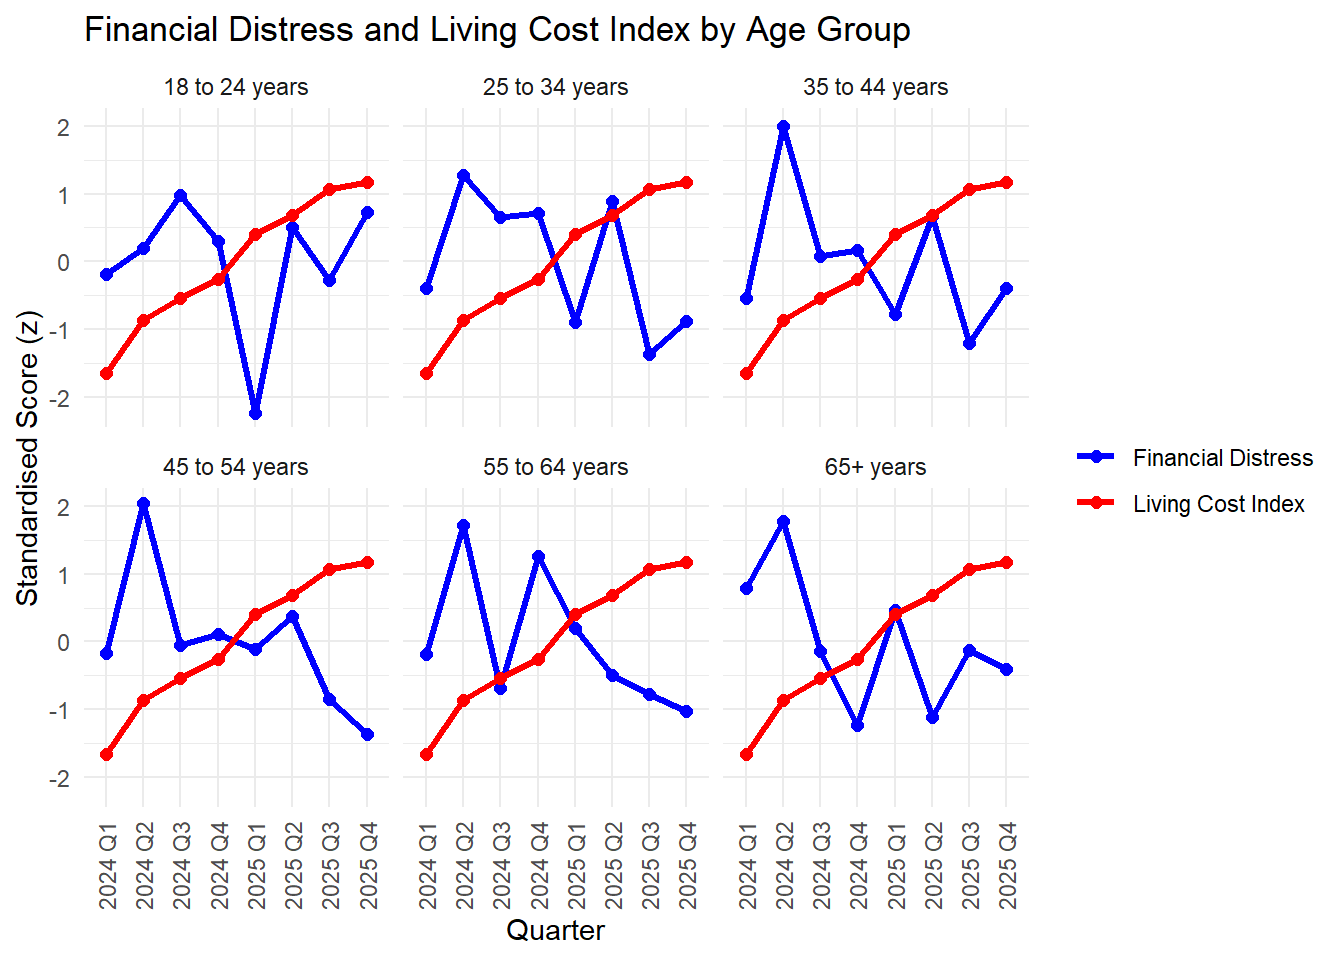
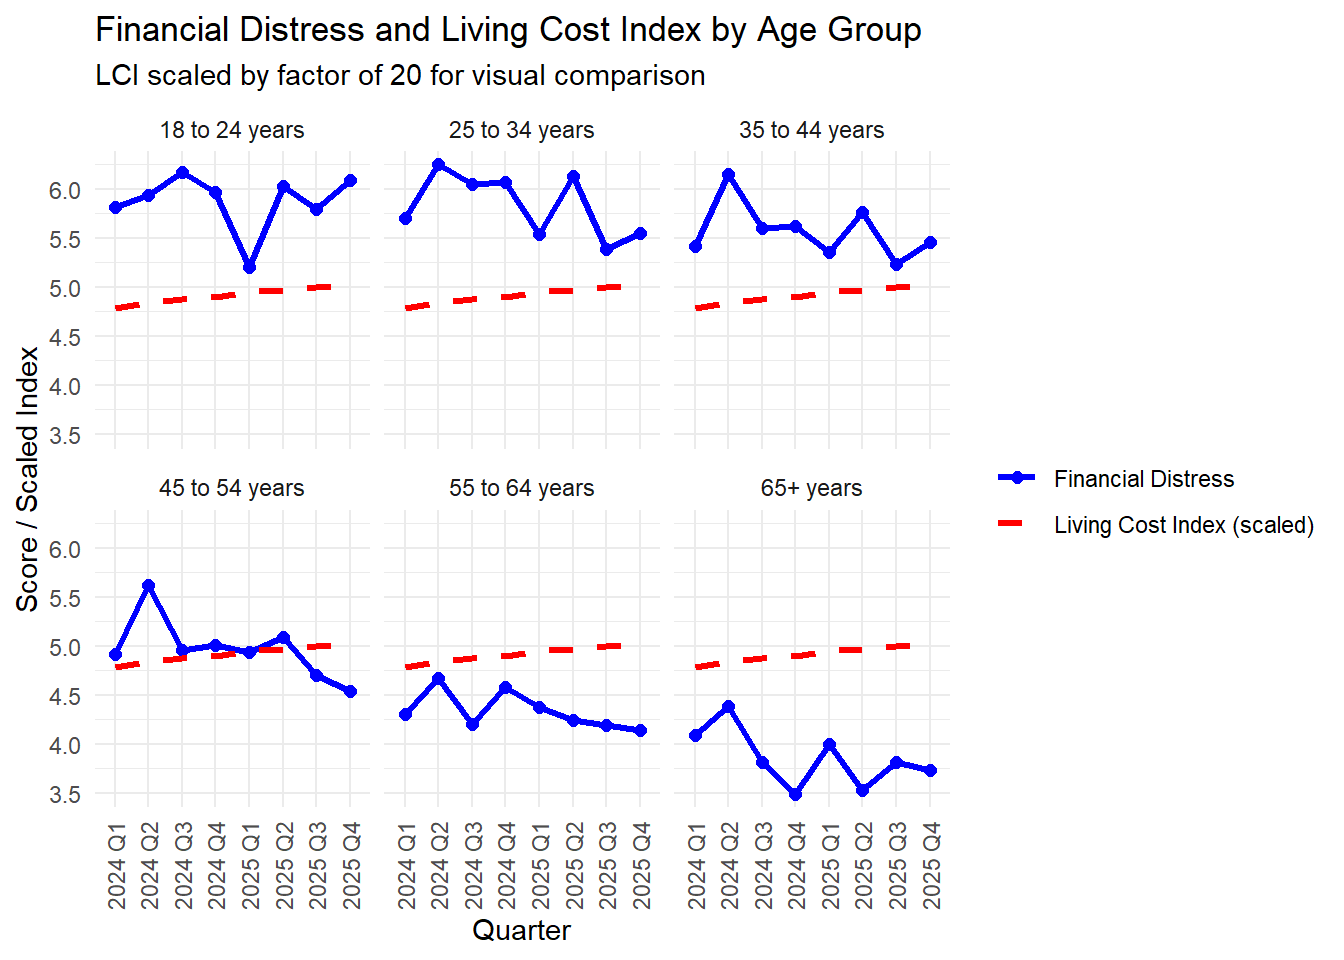
Utilities section added

diff --git a/phase2.html b/phase2.html
@@ -342,23 +342,27 @@ sample estimates:
 <span id="cb14-7"><a href="#cb14-7" aria-hidden="true" tabindex="-1"></a>  <span class="fu">ungroup</span>()</span></code></pre></div><button title="Copy to Clipboard" class="code-copy-button"><i class="bi"></i></button></div>
 </div>
 <div class="cell">
-<div class="code-copy-outer-scaffold"><div class="sourceCode cell-code" id="cb15"><pre class="sourceCode r code-with-copy"><code class="sourceCode r"><span id="cb15-1"><a href="#cb15-1" aria-hidden="true" tabindex="-1"></a><span class="fu">ggplot</span>(age_phase2, <span class="fu">aes</span>(<span class="at">x =</span> quarter, <span class="at">group =</span> <span class="dv">1</span>)) <span class="sc">+</span></span>
-<span id="cb15-2"><a href="#cb15-2" aria-hidden="true" tabindex="-1"></a>  <span class="fu">geom_line</span>(<span class="fu">aes</span>(<span class="at">y =</span> f10_z, <span class="at">colour =</span> <span class="st">"Financial Distress"</span>), <span class="at">linewidth =</span> <span class="fl">1.1</span>) <span class="sc">+</span></span>
-<span id="cb15-3"><a href="#cb15-3" aria-hidden="true" tabindex="-1"></a>  <span class="fu">geom_point</span>(<span class="fu">aes</span>(<span class="at">y =</span> f10_z, <span class="at">colour =</span> <span class="st">"Financial Distress"</span>), <span class="at">size =</span> <span class="dv">2</span>) <span class="sc">+</span></span>
-<span id="cb15-4"><a href="#cb15-4" aria-hidden="true" tabindex="-1"></a>  <span class="fu">geom_line</span>(<span class="fu">aes</span>(<span class="at">y =</span> lci_z, <span class="at">colour =</span> <span class="st">"Living Cost Index"</span>), <span class="at">linewidth =</span> <span class="fl">1.1</span>) <span class="sc">+</span></span>
-<span id="cb15-5"><a href="#cb15-5" aria-hidden="true" tabindex="-1"></a>  <span class="fu">geom_point</span>(<span class="fu">aes</span>(<span class="at">y =</span> lci_z, <span class="at">colour =</span> <span class="st">"Living Cost Index"</span>), <span class="at">size =</span> <span class="dv">2</span>) <span class="sc">+</span></span>
-<span id="cb15-6"><a href="#cb15-6" aria-hidden="true" tabindex="-1"></a>  <span class="fu">facet_wrap</span>(<span class="sc">~</span>age_group) <span class="sc">+</span></span>
-<span id="cb15-7"><a href="#cb15-7" aria-hidden="true" tabindex="-1"></a>  <span class="fu">scale_colour_manual</span>(<span class="at">values =</span> <span class="fu">c</span>(<span class="st">"Financial Distress"</span> <span class="ot">=</span> <span class="st">"blue"</span>, <span class="st">"Living Cost Index"</span> <span class="ot">=</span> <span class="st">"red"</span>)) <span class="sc">+</span></span>
-<span id="cb15-8"><a href="#cb15-8" aria-hidden="true" tabindex="-1"></a>  <span class="fu">labs</span>(</span>
-<span id="cb15-9"><a href="#cb15-9" aria-hidden="true" tabindex="-1"></a>    <span class="at">title =</span> <span class="st">"Financial Distress and Living Cost Index by Age Group"</span>,</span>
-<span id="cb15-10"><a href="#cb15-10" aria-hidden="true" tabindex="-1"></a>    <span class="at">x =</span> <span class="st">"Quarter"</span>,</span>
-<span id="cb15-11"><a href="#cb15-11" aria-hidden="true" tabindex="-1"></a>    <span class="at">y =</span> <span class="st">"Standardised Score (z)"</span>,</span>
-<span id="cb15-12"><a href="#cb15-12" aria-hidden="true" tabindex="-1"></a>    <span class="at">colour =</span> <span class="st">""</span></span>
-<span id="cb15-13"><a href="#cb15-13" aria-hidden="true" tabindex="-1"></a>  ) <span class="sc">+</span></span>
-<span id="cb15-14"><a href="#cb15-14" aria-hidden="true" tabindex="-1"></a>  <span class="fu">theme_minimal</span>() <span class="sc">+</span></span>
-<span id="cb15-15"><a href="#cb15-15" aria-hidden="true" tabindex="-1"></a>  <span class="fu">theme</span>(</span>
-<span id="cb15-16"><a href="#cb15-16" aria-hidden="true" tabindex="-1"></a>    <span class="at">axis.text.x =</span> <span class="fu">element_text</span>(<span class="at">angle =</span> <span class="dv">90</span>, <span class="at">vjust =</span> <span class="fl">0.5</span>, <span class="at">hjust =</span> <span class="dv">1</span>)</span>
-<span id="cb15-17"><a href="#cb15-17" aria-hidden="true" tabindex="-1"></a>  )</span></code></pre></div><button title="Copy to Clipboard" class="code-copy-button"><i class="bi"></i></button></div>
+<div class="code-copy-outer-scaffold"><div class="sourceCode cell-code" id="cb15"><pre class="sourceCode r code-with-copy"><code class="sourceCode r"><span id="cb15-1"><a href="#cb15-1" aria-hidden="true" tabindex="-1"></a><span class="fu">ggplot</span>(age_phase2, <span class="fu">aes</span>(<span class="at">x =</span> quarter, <span class="at">group =</span> age_group)) <span class="sc">+</span></span>
+<span id="cb15-2"><a href="#cb15-2" aria-hidden="true" tabindex="-1"></a>  <span class="co"># Real 1-10 Distress Score</span></span>
+<span id="cb15-3"><a href="#cb15-3" aria-hidden="true" tabindex="-1"></a>  <span class="fu">geom_line</span>(<span class="fu">aes</span>(<span class="at">y =</span> mean_f10, <span class="at">colour =</span> <span class="st">"Financial Distress"</span>), <span class="at">linewidth =</span> <span class="fl">1.1</span>) <span class="sc">+</span></span>
+<span id="cb15-4"><a href="#cb15-4" aria-hidden="true" tabindex="-1"></a>  <span class="fu">geom_point</span>(<span class="fu">aes</span>(<span class="at">y =</span> mean_f10, <span class="at">colour =</span> <span class="st">"Financial Distress"</span>), <span class="at">size =</span> <span class="dv">2</span>) <span class="sc">+</span></span>
+<span id="cb15-5"><a href="#cb15-5" aria-hidden="true" tabindex="-1"></a>  </span>
+<span id="cb15-6"><a href="#cb15-6" aria-hidden="true" tabindex="-1"></a>  <span class="co"># LCI divided by 20 (The "Giant to Ant" fix)</span></span>
+<span id="cb15-7"><a href="#cb15-7" aria-hidden="true" tabindex="-1"></a>  <span class="fu">geom_line</span>(<span class="fu">aes</span>(<span class="at">y =</span> employee_lci<span class="sc">/</span><span class="dv">20</span>, <span class="at">colour =</span> <span class="st">"Living Cost Index (scaled)"</span>), </span>
+<span id="cb15-8"><a href="#cb15-8" aria-hidden="true" tabindex="-1"></a>            <span class="at">linewidth =</span> <span class="fl">1.1</span>, <span class="at">linetype =</span> <span class="st">"dashed"</span>) <span class="sc">+</span></span>
+<span id="cb15-9"><a href="#cb15-9" aria-hidden="true" tabindex="-1"></a>  </span>
+<span id="cb15-10"><a href="#cb15-10" aria-hidden="true" tabindex="-1"></a>  <span class="fu">facet_wrap</span>(<span class="sc">~</span>age_group) <span class="sc">+</span></span>
+<span id="cb15-11"><a href="#cb15-11" aria-hidden="true" tabindex="-1"></a>  <span class="fu">scale_colour_manual</span>(<span class="at">values =</span> <span class="fu">c</span>(<span class="st">"Financial Distress"</span> <span class="ot">=</span> <span class="st">"blue"</span>, </span>
+<span id="cb15-12"><a href="#cb15-12" aria-hidden="true" tabindex="-1"></a>                                 <span class="st">"Living Cost Index (scaled)"</span> <span class="ot">=</span> <span class="st">"red"</span>)) <span class="sc">+</span></span>
+<span id="cb15-13"><a href="#cb15-13" aria-hidden="true" tabindex="-1"></a>  <span class="fu">labs</span>(</span>
+<span id="cb15-14"><a href="#cb15-14" aria-hidden="true" tabindex="-1"></a>    <span class="at">title =</span> <span class="st">"Financial Distress and Living Cost Index by Age Group"</span>,</span>
+<span id="cb15-15"><a href="#cb15-15" aria-hidden="true" tabindex="-1"></a>    <span class="at">subtitle =</span> <span class="st">"LCI scaled by factor of 20 for visual comparison"</span>,</span>
+<span id="cb15-16"><a href="#cb15-16" aria-hidden="true" tabindex="-1"></a>    <span class="at">x =</span> <span class="st">"Quarter"</span>,</span>
+<span id="cb15-17"><a href="#cb15-17" aria-hidden="true" tabindex="-1"></a>    <span class="at">y =</span> <span class="st">"Score / Scaled Index"</span>,</span>
+<span id="cb15-18"><a href="#cb15-18" aria-hidden="true" tabindex="-1"></a>    <span class="at">colour =</span> <span class="st">""</span></span>
+<span id="cb15-19"><a href="#cb15-19" aria-hidden="true" tabindex="-1"></a>  ) <span class="sc">+</span></span>
+<span id="cb15-20"><a href="#cb15-20" aria-hidden="true" tabindex="-1"></a>  <span class="fu">theme_minimal</span>() <span class="sc">+</span></span>
+<span id="cb15-21"><a href="#cb15-21" aria-hidden="true" tabindex="-1"></a>  <span class="fu">theme</span>(<span class="at">axis.text.x =</span> <span class="fu">element_text</span>(<span class="at">angle =</span> <span class="dv">90</span>, <span class="at">vjust =</span> <span class="fl">0.5</span>, <span class="at">hjust =</span> <span class="dv">1</span>))</span></code></pre></div><button title="Copy to Clipboard" class="code-copy-button"><i class="bi"></i></button></div>
 <div class="cell-output-display">
 <div>
 <figure class="figure">
@@ -500,6 +504,119 @@ sample estimates:
 </div>
 <p>The chart shows strong positive relationship. The data indicates that financial and psychological distress are highly synchronized. An increase in the national average of financial distress is associated with a measurable rise in psychological distress. This suggests that the Living Cost crisis is also a Mental Health crisis for the workers.</p>
 </section>
+</section>
+<section id="blue-collar-vs-white-collar" class="level2">
+<h2 class="anchored" data-anchor-id="blue-collar-vs-white-collar">Blue collar vs White collar</h2>
+<div class="cell">
+<div class="code-copy-outer-scaffold"><div class="sourceCode cell-code" id="cb26"><pre class="sourceCode r code-with-copy"><code class="sourceCode r"><span id="cb26-1"><a href="#cb26-1" aria-hidden="true" tabindex="-1"></a><span class="co"># RQ#5: Blue Collar (2) vs White Collar (1)</span></span>
+<span id="cb26-2"><a href="#cb26-2" aria-hidden="true" tabindex="-1"></a>occupational_summary <span class="ot">&lt;-</span> itw_all <span class="sc">|&gt;</span></span>
+<span id="cb26-3"><a href="#cb26-3" aria-hidden="true" tabindex="-1"></a>  <span class="fu">filter</span>(<span class="sc">!</span><span class="fu">is.na</span>(a18), a18 <span class="sc">%in%</span> <span class="fu">c</span>(<span class="dv">1</span>, <span class="dv">2</span>)) <span class="sc">|&gt;</span></span>
+<span id="cb26-4"><a href="#cb26-4" aria-hidden="true" tabindex="-1"></a>  <span class="fu">mutate</span>(<span class="at">worker_type =</span> <span class="fu">if_else</span>(a18 <span class="sc">==</span> <span class="dv">2</span>, <span class="st">"Blue Collar"</span>, <span class="st">"White Collar"</span>)) <span class="sc">|&gt;</span></span>
+<span id="cb26-5"><a href="#cb26-5" aria-hidden="true" tabindex="-1"></a>  <span class="fu">group_by</span>(quarter, worker_type) <span class="sc">|&gt;</span></span>
+<span id="cb26-6"><a href="#cb26-6" aria-hidden="true" tabindex="-1"></a>  <span class="fu">summarise</span>(</span>
+<span id="cb26-7"><a href="#cb26-7" aria-hidden="true" tabindex="-1"></a>    <span class="at">mean_f10 =</span> <span class="fu">mean</span>(f10_1, <span class="at">na.rm =</span> <span class="cn">TRUE</span>),</span>
+<span id="cb26-8"><a href="#cb26-8" aria-hidden="true" tabindex="-1"></a>    <span class="at">mean_k6 =</span> <span class="fu">mean</span>(k6_score, <span class="at">na.rm =</span> <span class="cn">TRUE</span>),</span>
+<span id="cb26-9"><a href="#cb26-9" aria-hidden="true" tabindex="-1"></a>    <span class="at">n =</span> <span class="fu">n</span>(),</span>
+<span id="cb26-10"><a href="#cb26-10" aria-hidden="true" tabindex="-1"></a>    <span class="at">.groups =</span> <span class="st">"drop"</span></span>
+<span id="cb26-11"><a href="#cb26-11" aria-hidden="true" tabindex="-1"></a>  ) <span class="sc">|&gt;</span></span>
+<span id="cb26-12"><a href="#cb26-12" aria-hidden="true" tabindex="-1"></a>  <span class="fu">left_join</span>(abs_lci_2425, <span class="at">by =</span> <span class="st">"quarter"</span>)</span></code></pre></div><button title="Copy to Clipboard" class="code-copy-button"><i class="bi"></i></button></div>
+</div>
+<div class="cell">
+<div class="code-copy-outer-scaffold"><div class="sourceCode cell-code" id="cb27"><pre class="sourceCode r code-with-copy"><code class="sourceCode r"><span id="cb27-1"><a href="#cb27-1" aria-hidden="true" tabindex="-1"></a>worker_correlations <span class="ot">&lt;-</span> occupational_summary <span class="sc">|&gt;</span></span>
+<span id="cb27-2"><a href="#cb27-2" aria-hidden="true" tabindex="-1"></a>  <span class="fu">group_by</span>(worker_type) <span class="sc">|&gt;</span></span>
+<span id="cb27-3"><a href="#cb27-3" aria-hidden="true" tabindex="-1"></a>  <span class="fu">summarise</span>(</span>
+<span id="cb27-4"><a href="#cb27-4" aria-hidden="true" tabindex="-1"></a>    <span class="at">f10_lci_cor =</span> <span class="fu">cor</span>(mean_f10, employee_lci, <span class="at">use =</span> <span class="st">"complete.obs"</span>),</span>
+<span id="cb27-5"><a href="#cb27-5" aria-hidden="true" tabindex="-1"></a>    <span class="at">.groups =</span> <span class="st">"drop"</span></span>
+<span id="cb27-6"><a href="#cb27-6" aria-hidden="true" tabindex="-1"></a>  )</span>
+<span id="cb27-7"><a href="#cb27-7" aria-hidden="true" tabindex="-1"></a></span>
+<span id="cb27-8"><a href="#cb27-8" aria-hidden="true" tabindex="-1"></a><span class="fu">print</span>(worker_correlations)</span></code></pre></div><button title="Copy to Clipboard" class="code-copy-button"><i class="bi"></i></button></div>
+<div class="cell-output cell-output-stdout">
+<pre><code># A tibble: 2 × 2
+  worker_type  f10_lci_cor
+  &lt;chr&gt;              &lt;dbl&gt;
+1 Blue Collar       -0.223
+2 White Collar      -0.578</code></pre>
+</div>
+</div>
+<p>White collar has strong negative relation which means that as cost of living rise, their distress actually fell. For Blue collar, it has much weaker correlation, their distress doesn’t drop when there is shift in the economy.</p>
+<div class="cell">
+<div class="code-copy-outer-scaffold"><div class="sourceCode cell-code" id="cb29"><pre class="sourceCode r code-with-copy"><code class="sourceCode r"><span id="cb29-1"><a href="#cb29-1" aria-hidden="true" tabindex="-1"></a><span class="fu">ggplot</span>(occupational_summary, <span class="fu">aes</span>(<span class="at">x =</span> quarter, <span class="at">group =</span> worker_type)) <span class="sc">+</span></span>
+<span id="cb29-2"><a href="#cb29-2" aria-hidden="true" tabindex="-1"></a>  <span class="co"># Real 1-10 Distress Score</span></span>
+<span id="cb29-3"><a href="#cb29-3" aria-hidden="true" tabindex="-1"></a>  <span class="fu">geom_line</span>(<span class="fu">aes</span>(<span class="at">y =</span> mean_f10, <span class="at">color =</span> <span class="st">"Financial Distress"</span>), <span class="at">linewidth =</span> <span class="fl">1.2</span>) <span class="sc">+</span></span>
+<span id="cb29-4"><a href="#cb29-4" aria-hidden="true" tabindex="-1"></a>  <span class="fu">geom_point</span>(<span class="fu">aes</span>(<span class="at">y =</span> mean_f10), <span class="at">color =</span> <span class="st">"blue"</span>, <span class="at">size =</span> <span class="dv">2</span>) <span class="sc">+</span></span>
+<span id="cb29-5"><a href="#cb29-5" aria-hidden="true" tabindex="-1"></a>  </span>
+<span id="cb29-6"><a href="#cb29-6" aria-hidden="true" tabindex="-1"></a>  <span class="co"># LCI divided by 20</span></span>
+<span id="cb29-7"><a href="#cb29-7" aria-hidden="true" tabindex="-1"></a>  <span class="fu">geom_line</span>(<span class="fu">aes</span>(<span class="at">y =</span> employee_lci<span class="sc">/</span><span class="dv">20</span>, <span class="at">color =</span> <span class="st">"Living Cost Index (scaled)"</span>), </span>
+<span id="cb29-8"><a href="#cb29-8" aria-hidden="true" tabindex="-1"></a>            <span class="at">linewidth =</span> <span class="fl">1.2</span>, <span class="at">linetype =</span> <span class="st">"dashed"</span>) <span class="sc">+</span></span>
+<span id="cb29-9"><a href="#cb29-9" aria-hidden="true" tabindex="-1"></a>  </span>
+<span id="cb29-10"><a href="#cb29-10" aria-hidden="true" tabindex="-1"></a>  <span class="fu">facet_wrap</span>(<span class="sc">~</span>worker_type) <span class="sc">+</span></span>
+<span id="cb29-11"><a href="#cb29-11" aria-hidden="true" tabindex="-1"></a>  <span class="fu">scale_color_manual</span>(<span class="at">values =</span> <span class="fu">c</span>(<span class="st">"Financial Distress"</span> <span class="ot">=</span> <span class="st">"blue"</span>, </span>
+<span id="cb29-12"><a href="#cb29-12" aria-hidden="true" tabindex="-1"></a>                                <span class="st">"Living Cost Index (scaled)"</span> <span class="ot">=</span> <span class="st">"red"</span>)) <span class="sc">+</span></span>
+<span id="cb29-13"><a href="#cb29-13" aria-hidden="true" tabindex="-1"></a>  <span class="fu">labs</span>(</span>
+<span id="cb29-14"><a href="#cb29-14" aria-hidden="true" tabindex="-1"></a>    <span class="at">title =</span> <span class="st">"Living Costs vs Financial Distress: Blue vs White Collar"</span>,</span>
+<span id="cb29-15"><a href="#cb29-15" aria-hidden="true" tabindex="-1"></a>    <span class="at">subtitle =</span> <span class="st">"Distress (1-10) vs. LCI (scaled by /20)"</span>,</span>
+<span id="cb29-16"><a href="#cb29-16" aria-hidden="true" tabindex="-1"></a>    <span class="at">x =</span> <span class="st">"Quarter"</span>,</span>
+<span id="cb29-17"><a href="#cb29-17" aria-hidden="true" tabindex="-1"></a>    <span class="at">y =</span> <span class="st">"Financial distress"</span></span>
+<span id="cb29-18"><a href="#cb29-18" aria-hidden="true" tabindex="-1"></a>  ) <span class="sc">+</span></span>
+<span id="cb29-19"><a href="#cb29-19" aria-hidden="true" tabindex="-1"></a>  <span class="fu">theme_minimal</span>() <span class="sc">+</span></span>
+<span id="cb29-20"><a href="#cb29-20" aria-hidden="true" tabindex="-1"></a>  <span class="fu">theme</span>(<span class="at">axis.text.x =</span> <span class="fu">element_text</span>(<span class="at">angle =</span> <span class="dv">45</span>, <span class="at">hjust =</span> <span class="dv">1</span>))</span></code></pre></div><button title="Copy to Clipboard" class="code-copy-button"><i class="bi"></i></button></div>
+<div class="cell-output-display">
+<div>
+<figure class="figure">
+<p><img src="phase2_files/figure-html/unnamed-chunk-14-1.png" class="img-fluid figure-img" width="672"></p>
+</figure>
+</div>
+</div>
+</div>
+<div class="cell">
+<div class="code-copy-outer-scaffold"><div class="sourceCode cell-code" id="cb30"><pre class="sourceCode r code-with-copy"><code class="sourceCode r"><span id="cb30-1"><a href="#cb30-1" aria-hidden="true" tabindex="-1"></a>f8_summary <span class="ot">&lt;-</span> itw_all <span class="sc">|&gt;</span></span>
+<span id="cb30-2"><a href="#cb30-2" aria-hidden="true" tabindex="-1"></a>  <span class="fu">select</span>(quarter, f8_1, f8_2, f8_3) <span class="sc">|&gt;</span></span>
+<span id="cb30-3"><a href="#cb30-3" aria-hidden="true" tabindex="-1"></a>  <span class="fu">pivot_longer</span>(<span class="at">cols =</span> <span class="fu">starts_with</span>(<span class="st">"f8"</span>), </span>
+<span id="cb30-4"><a href="#cb30-4" aria-hidden="true" tabindex="-1"></a>               <span class="at">names_to =</span> <span class="st">"category"</span>, </span>
+<span id="cb30-5"><a href="#cb30-5" aria-hidden="true" tabindex="-1"></a>               <span class="at">values_to =</span> <span class="st">"rating"</span>) <span class="sc">|&gt;</span></span>
+<span id="cb30-6"><a href="#cb30-6" aria-hidden="true" tabindex="-1"></a>  <span class="fu">filter</span>(<span class="sc">!</span><span class="fu">is.na</span>(rating)) <span class="sc">|&gt;</span></span>
+<span id="cb30-7"><a href="#cb30-7" aria-hidden="true" tabindex="-1"></a>  <span class="fu">mutate</span>(</span>
+<span id="cb30-8"><a href="#cb30-8" aria-hidden="true" tabindex="-1"></a>    <span class="at">category =</span> <span class="fu">case_when</span>(</span>
+<span id="cb30-9"><a href="#cb30-9" aria-hidden="true" tabindex="-1"></a>      category <span class="sc">==</span> <span class="st">"f8_1"</span> <span class="sc">~</span> <span class="st">"Housing (Rent/Mortgage)"</span>,</span>
+<span id="cb30-10"><a href="#cb30-10" aria-hidden="true" tabindex="-1"></a>      category <span class="sc">==</span> <span class="st">"f8_2"</span> <span class="sc">~</span> <span class="st">"Utilities"</span>,</span>
+<span id="cb30-11"><a href="#cb30-11" aria-hidden="true" tabindex="-1"></a>      category <span class="sc">==</span> <span class="st">"f8_3"</span> <span class="sc">~</span> <span class="st">"Food"</span></span>
+<span id="cb30-12"><a href="#cb30-12" aria-hidden="true" tabindex="-1"></a>    ),</span>
+<span id="cb30-13"><a href="#cb30-13" aria-hidden="true" tabindex="-1"></a>    <span class="co"># Convert numeric 1-5 to readable labels</span></span>
+<span id="cb30-14"><a href="#cb30-14" aria-hidden="true" tabindex="-1"></a>    <span class="at">rating_label =</span> <span class="fu">factor</span>(rating, </span>
+<span id="cb30-15"><a href="#cb30-15" aria-hidden="true" tabindex="-1"></a>                          <span class="at">levels =</span> <span class="dv">1</span><span class="sc">:</span><span class="dv">5</span>, </span>
+<span id="cb30-16"><a href="#cb30-16" aria-hidden="true" tabindex="-1"></a>                          <span class="at">labels =</span> <span class="fu">c</span>(<span class="st">"1 - Very Difficult"</span>, <span class="st">"2"</span>, <span class="st">"3"</span>, <span class="st">"4"</span>, <span class="st">"5 - Very Easy"</span>))</span>
+<span id="cb30-17"><a href="#cb30-17" aria-hidden="true" tabindex="-1"></a>  ) <span class="sc">|&gt;</span></span>
+<span id="cb30-18"><a href="#cb30-18" aria-hidden="true" tabindex="-1"></a>  <span class="fu">group_by</span>(quarter, category, rating_label) <span class="sc">|&gt;</span></span>
+<span id="cb30-19"><a href="#cb30-19" aria-hidden="true" tabindex="-1"></a>  <span class="fu">summarise</span>(<span class="at">count =</span> <span class="fu">n</span>(), <span class="at">.groups =</span> <span class="st">"drop"</span>) <span class="sc">|&gt;</span></span>
+<span id="cb30-20"><a href="#cb30-20" aria-hidden="true" tabindex="-1"></a>  <span class="fu">group_by</span>(quarter, category) <span class="sc">|&gt;</span></span>
+<span id="cb30-21"><a href="#cb30-21" aria-hidden="true" tabindex="-1"></a>  <span class="fu">mutate</span>(<span class="at">pct =</span> (count <span class="sc">/</span> <span class="fu">sum</span>(count)) <span class="sc">*</span> <span class="dv">100</span>)</span></code></pre></div><button title="Copy to Clipboard" class="code-copy-button"><i class="bi"></i></button></div>
+</div>
+<div class="cell">
+<div class="code-copy-outer-scaffold"><div class="sourceCode cell-code" id="cb31"><pre class="sourceCode r code-with-copy"><code class="sourceCode r"><span id="cb31-1"><a href="#cb31-1" aria-hidden="true" tabindex="-1"></a><span class="fu">ggplot</span>(f8_summary, <span class="fu">aes</span>(<span class="at">x =</span> quarter, <span class="at">y =</span> pct, <span class="at">fill =</span> rating_label)) <span class="sc">+</span></span>
+<span id="cb31-2"><a href="#cb31-2" aria-hidden="true" tabindex="-1"></a>  <span class="fu">geom_bar</span>(<span class="at">stat =</span> <span class="st">"identity"</span>, <span class="at">position =</span> <span class="st">"fill"</span>) <span class="sc">+</span></span>
+<span id="cb31-3"><a href="#cb31-3" aria-hidden="true" tabindex="-1"></a>  <span class="fu">facet_wrap</span>(<span class="sc">~</span>category) <span class="sc">+</span></span>
+<span id="cb31-4"><a href="#cb31-4" aria-hidden="true" tabindex="-1"></a>  <span class="fu">scale_fill_brewer</span>(<span class="at">palette =</span> <span class="st">"RdYlGn"</span>) <span class="sc">+</span> <span class="co"># Red (Difficult) to Green (Easy)</span></span>
+<span id="cb31-5"><a href="#cb31-5" aria-hidden="true" tabindex="-1"></a>  <span class="fu">labs</span>(</span>
+<span id="cb31-6"><a href="#cb31-6" aria-hidden="true" tabindex="-1"></a>    <span class="at">title =</span> <span class="st">"Ease of Meeting Essential Living Costs"</span>,</span>
+<span id="cb31-7"><a href="#cb31-7" aria-hidden="true" tabindex="-1"></a>    <span class="at">subtitle =</span> <span class="st">"Comparing Housing, Utilities, and Food across 2024-2025"</span>,</span>
+<span id="cb31-8"><a href="#cb31-8" aria-hidden="true" tabindex="-1"></a>    <span class="at">x =</span> <span class="st">"Quarter"</span>,</span>
+<span id="cb31-9"><a href="#cb31-9" aria-hidden="true" tabindex="-1"></a>    <span class="at">y =</span> <span class="st">"Percentage of Workers (%)"</span>,</span>
+<span id="cb31-10"><a href="#cb31-10" aria-hidden="true" tabindex="-1"></a>    <span class="at">fill =</span> <span class="st">"Ease of Payment"</span></span>
+<span id="cb31-11"><a href="#cb31-11" aria-hidden="true" tabindex="-1"></a>  ) <span class="sc">+</span></span>
+<span id="cb31-12"><a href="#cb31-12" aria-hidden="true" tabindex="-1"></a>  <span class="fu">theme_minimal</span>() <span class="sc">+</span></span>
+<span id="cb31-13"><a href="#cb31-13" aria-hidden="true" tabindex="-1"></a>  <span class="fu">theme</span>(</span>
+<span id="cb31-14"><a href="#cb31-14" aria-hidden="true" tabindex="-1"></a>    <span class="at">axis.text.x =</span> <span class="fu">element_text</span>(<span class="at">angle =</span> <span class="dv">45</span>, <span class="at">hjust =</span> <span class="dv">1</span>),</span>
+<span id="cb31-15"><a href="#cb31-15" aria-hidden="true" tabindex="-1"></a>    <span class="at">legend.position =</span> <span class="st">"bottom"</span></span>
+<span id="cb31-16"><a href="#cb31-16" aria-hidden="true" tabindex="-1"></a>  ) <span class="sc">+</span></span>
+<span id="cb31-17"><a href="#cb31-17" aria-hidden="true" tabindex="-1"></a>  <span class="fu">scale_y_continuous</span>(<span class="at">labels =</span> scales<span class="sc">::</span><span class="fu">percent_format</span>())</span></code></pre></div><button title="Copy to Clipboard" class="code-copy-button"><i class="bi"></i></button></div>
+<div class="cell-output-display">
+<div>
+<figure class="figure">
+<p><img src="phase2_files/figure-html/unnamed-chunk-16-1.png" class="img-fluid figure-img" width="672"></p>
+</figure>
+</div>
+</div>
+</div>
 </section>
 
 </main>